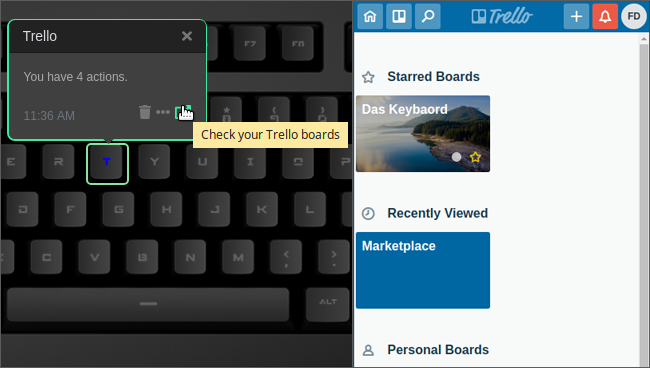
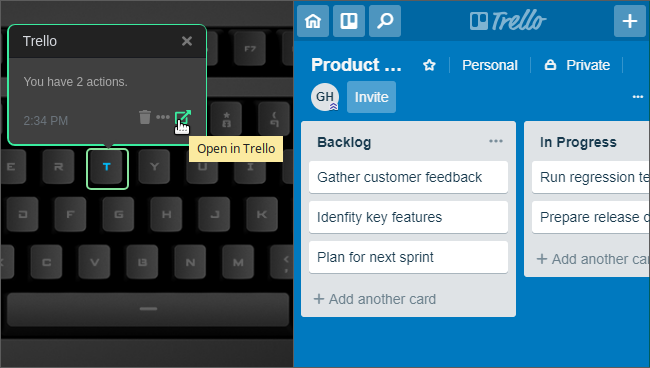
Details content updated for release.

diff --git a/index.js b/index.js
@@ -56,7 +56,7 @@ class Trello extends q.DesktopApp {
       message: `You have ${actions.length} ${this.action}.`,
       link: {
         url: 'https://trello.com/me/boards',
-        label: 'Check your Trello boards'
+        label: 'Open in Trello'
       }
     });
   }

diff --git a/README_ENDUSER.md b/README_ENDUSER.md
@@ -2,4 +2,6 @@
 
 Displays Trello notifications on a Das Keyboard Q Series.
 
-![Trello on a Das Keybaord Q](assets/image.png "Trello notification")
+[GitHub repository](https://github.com/daskeyboard/daskeyboard-applet--trello)
+
+![Trello applet on a Das Keybaord Q](assets/image.png "Das Keyboard Trello applet")

diff --git a/README.md b/README.md
@@ -2,7 +2,7 @@
 
 Displays Trello notifications on a Das Keyboard Q Series.
 
-![Trello on a Das Keybaord Q](assets/image.png "Trello notification")
+![Trello applet on a Das Keybaord Q](assets/image.png "Das Keyboard Trello applet")
 
 ## Changelog
 

diff --git a/CHANGELOG.md b/CHANGELOG.md
@@ -1,8 +1,9 @@
 # Changelog Q Applet Trello
 
-## Version 1.0.1 - January 11, 2019
+## Version 1.0.1 - January 17, 2019
 
-Notification flashes blue
+Notification flashes blue.
+Description content updated.
 
 ## Version 1.0.0 - October 30, 2018
 
